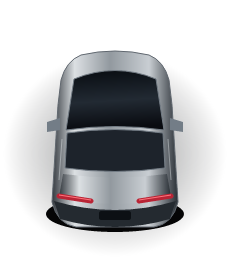
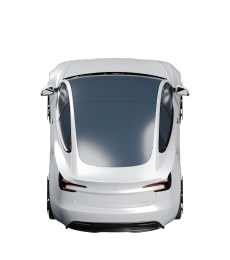
[Tesla UI] Render Model 3 Highland from a detailed 3D mesh

diff --git a/extensions/tesla-ui/render_vehicle.py b/extensions/tesla-ui/render_vehicle.py
@@ -1,0 +1,111 @@
+"""Render the credited Highland GLB: blender -b --python render_vehicle.py -- MODEL.glb."""
+import argparse
+import hashlib
+import sys
+from pathlib import Path
+
+import bpy
+from mathutils import Vector
+
[1 lines of base64/hex data omitted]
+ROOT = Path(__file__).resolve().parent
+
+
+def aim(obj, target):
+    obj.rotation_euler = (Vector(target) - obj.location).to_track_quat('-Z', 'Y').to_euler()
+
+
+def softbox(name, location, power, size, target=(0, 0, .6)):
+    light = bpy.data.lights.new(name, 'AREA')
+    light.energy = power
+    light.shape = 'DISK'
+    light.size = size
+    obj = bpy.data.objects.new(name, light)
+    bpy.context.collection.objects.link(obj)
+    obj.location = location
+    aim(obj, target)
+
+
+def main():
+    parser = argparse.ArgumentParser(description=__doc__)
+    parser.add_argument('model', type=Path)
+    parser.add_argument('--samples', type=int, default=128)
+    parser.add_argument('--output', type=Path, default=ROOT / 'assets')
+    args = parser.parse_args(sys.argv[sys.argv.index('--') + 1:])
+    if hashlib.sha256(args.model.read_bytes()).hexdigest() != SOURCE_SHA256:
+        parser.error('Model differs from the credited source; see assets/Model3-CREDITS.md.')
+    bpy.ops.wm.read_factory_settings(use_empty=True)
+    bpy.ops.import_scene.gltf(filepath=str(args.model.resolve()))
+    meshes = [o for o in bpy.context.scene.objects if o.type == 'MESH']
+    # Bake the imported transform before placing the car in a metre-scale studio.
+    for obj in meshes:
+        matrix = obj.matrix_world.copy()
+        obj.parent = None
+        obj.matrix_world = matrix
+        obj.data.transform(matrix)
+        obj.matrix_world.identity()
+    points = [v.co for obj in meshes for v in obj.data.vertices]
+    lower = Vector([min(v[i] for v in points) for i in range(3)])
+    upper = Vector([max(v[i] for v in points) for i in range(3)])
+    origin = Vector(((lower.x + upper.x) / 2, (lower.y + upper.y) / 2, lower.z))
+    scale = 4.72 / (upper.x - lower.x)
+    for obj in meshes:
+        for vertex in obj.data.vertices:
+            vertex.co = (vertex.co - origin) * scale
+    # Preserve the source textures and geometry; finish the dark source paint in pearl silver.
+    paint = bpy.data.materials['Geohoodsub00021Mtl'].node_tree.nodes.get('Principled BSDF')
+    paint.inputs['Base Color'].default_value = (.62, .65, .70, 1)
+    paint.inputs['Metallic'].default_value = .55
+    paint.inputs['Roughness'].default_value = .24
+    paint.inputs['Coat Weight'].default_value = .45
+    paint.inputs['Coat Roughness'].default_value = .18
+    # Opaque smoked glazing gives a clean silhouette without alpha-sorting artifacts.
+    for name in ('Geodoorl2sub31Mtl', 'Geodoorr2sub31Mtl', 'Geoextwindow0021Mtl'):
+        shader = bpy.data.materials[name].node_tree.nodes.get('Principled BSDF')
+        shader.inputs['Base Color'].default_value = (.009, .014, .022, 1)
+        shader.inputs['Alpha'].default_value = 1
+        shader.inputs['Metallic'].default_value = .25
+        shader.inputs['Roughness'].default_value = .19
+    scene = bpy.context.scene
+    scene.render.engine = 'CYCLES'
+    scene.cycles.samples = args.samples
+    scene.cycles.use_denoising = True
+    scene.cycles.seed = 17
+    scene.world = bpy.data.worlds.new('Studio')
+    scene.world.use_nodes = True
+    scene.world.node_tree.nodes['Background'].inputs[0].default_value = (.16, .18, .22, 1)
+    scene.world.node_tree.nodes['Background'].inputs[1].default_value = .35
+    softbox('Key', (2, -4, 6), 1100, 5)
+    softbox('Roof', (-1, 2, 6), 1400, 4)
+    softbox('Front edge', (5, 3, 2.5), 850, 3)
+    softbox('Rear edge', (-5, -2, 3), 950, 3)
+    scene.render.film_transparent = True
+    scene.render.image_settings.file_format = 'PNG'
+    scene.render.image_settings.color_mode = 'RGBA'
+    scene.view_settings.view_transform = 'AgX'
+    camera = bpy.data.objects.new('Camera', bpy.data.cameras.new('Camera'))
+    bpy.context.collection.objects.link(camera)
+    scene.camera = camera
+    camera.data.type = 'ORTHO'
+    args.output.mkdir(parents=True, exist_ok=True)
+    for name, size, location, target, framing in (
+        ('park', (500, 300), (7, -8, 4.5), (0, 0, .7), 5.65),
+        ('drive', (230, 260), (-8, 0, 4.8), (0, 0, .65), 3.65),
+    ):
+        camera.location = location
+        aim(camera, target)
+        camera.data.ortho_scale = framing
+        scene.render.resolution_x = size[0] * 3
+        scene.render.resolution_y = size[1] * 3
+        scene.render.resolution_percentage = 100
+        path = args.output / (name + '.png')
+        scene.render.filepath = str(path)
+        bpy.ops.render.render(write_still=True)
+        rendered = bpy.data.images.load(str(path), check_existing=False)
+        rendered.scale(*size)
+        rendered.save()
+        bpy.data.images.remove(rendered)
+
+
+if __name__ == '__main__':
+    main()

diff --git a/extensions/tesla-ui/generate.py b/extensions/tesla-ui/generate.py
@@ -56,7 +56,7 @@ def assets():
         image=Image.new('RGBA',(76,148));draw=ImageDraw.Draw(image)
         draw.text((38,74),n,font=font,fill='#eeeeef',anchor='mm',stroke_width=0)
         image.save(out/f'digit-{n}.png')
-    for name in ('park','drive','battery','limit','left','right','back','back-pressed'):
+    for name in ('battery','limit','left','right','back','back-pressed'):
         (out/f'{name}.png').write_bytes(resvg_py.svg_to_bytes(svg_string=(ROOT/'design'/f'{name}.svg').read_text()))
 if __name__=='__main__':
     if '--assets' in sys.argv:assets()

diff --git a/extensions/tesla-ui/README.md b/extensions/tesla-ui/README.md
@@ -5,7 +5,7 @@ dark layout. Enable **Tesla UI** in Dashborne's Patches page, continue booting,
 then open **Star → Tesla UI → Open**. The lower-right arrow returns to Extra.
 
 Speed sits to the right of the vehicle graphic. Range, temperature, gear and
-time occupy the bottom row. Park and charging use a larger vehicle illustration;
+time occupy the bottom row. Park and charging use a larger Model 3 Highland render;
 Drive, Reverse and Neutral use the rear view. The layout has no customization
 controls.
 
@@ -17,8 +17,8 @@ clip at their bounds; the numeric power reading retains its value.
 
 Navigation shows remaining distance, travel time and estimated arrival charge
 when the stock data source supplies them. Maps and traffic/lane visualization
-are replaced by the energy panel and original vehicle illustrations. The car
-illustrations do not indicate doors, lights or nearby objects.
+are replaced by the energy panel and pre-rendered Model 3 Highland views. These
+images do not indicate doors, lights or nearby objects.
 
 ## Data and lifecycle
 
@@ -49,6 +49,17 @@ sh extensions/tesla-ui/test.sh
 uv run --with pillow extensions/tesla-ui/preview.py
 ```
 
+The car images are rendered from a 3D mesh in Blender; they are not regenerated
+by `generate.py`. Download the [credited GLB](assets/Model3-CREDITS.md), then run
+from the repository root (Blender 5.2.3):
+
+```sh
+blender -b --python extensions/tesla-ui/render_vehicle.py -- /path/to/2024_tesla_model_3.glb
+```
+
+The renderer verifies the source hash and produces both transparent PNGs at the
+widget dimensions. The regular DASH build uses these images without a 3D runtime.
+
 Previews in `dashborne/build/tesla-ui-previews/` use test fixtures passed through
 the native window renderer. They cover Drive, Park, Charging, regeneration and
 disconnection. Preview body text uses Inter; on the DASH, supporting labels use
@@ -63,3 +74,4 @@ ARM package is built; installation and visual checks on the DASH are pending.
 - [Model S instrument panel, Tesla Owner's Manual](https://www.tesla.com/ownersmanual/models/en_us/GUID-29A7E205-A689-41D1-B69C-3AE821CB70E7.html): layout, Park/Drive behavior and power-meter direction.
 - [Model S cluster photograph](https://imagecdn.zigwheels.ae/large/gallery/interior/95/1805/tesla-model-s-tachometer-469850.jpg): dark-theme spacing and speed placement.
 - [Inter](https://github.com/google/fonts/tree/main/ofl/inter): numeral typeface, distributed under the [SIL Open Font License](assets/Inter-LICENSE.txt).
+- [Model 3 Highland mesh and render credits](assets/Model3-CREDITS.md): RBLXSupercars, CC BY 4.0.

diff --git a/extensions/tesla-ui/assets/Model3-CREDITS.md b/extensions/tesla-ui/assets/Model3-CREDITS.md
@@ -1,0 +1,20 @@
+# Model 3 renders
+
+`park.png` and `drive.png` are Blender renders of **2024 Tesla Model 3** by
+[RBLXSupercars](https://sketchfab.com/RBLXSupercars), licensed under
+[Creative Commons Attribution 4.0 International](https://creativecommons.org/licenses/by/4.0/).
+
+The GLB embeds the author, license and
+[original model URL](https://sketchfab.com/3d-models/2024-tesla-model-3-fd22be415215453693d67e33aa7812d0).
+The source copy also credits
+[brandonleong28's upload](https://sketchfab.com/3d-models/tesla-model-3-2024-36c52f3f89f6439c90310f14e8ff33f2).
+
+Download: [pinned GLB](https://raw.githubusercontent.com/erictfree/Carbon-Footprint-AI-Visualizer/af4bef33ca371b24c1f043486f09a13571f4919b/models/tesla-model-3-2024/source/2024_tesla_model_3.glb),
+with [source credits](https://github.com/erictfree/Carbon-Footprint-AI-Visualizer/blob/af4bef33ca371b24c1f043486f09a13571f4919b/models/tesla-model-3-2024/CREDITS.md).
+
[1 lines of base64/hex data omitted]
+
+Dashborne changes: normalized scale and position, silver paint and smoked-glass
+materials, studio lighting, orthographic cameras, transparent backgrounds and
+downsampling. The mesh shape is unchanged. The rendered images retain the
+CC BY 4.0 license. Camera and material settings are in `../render_vehicle.py`.
